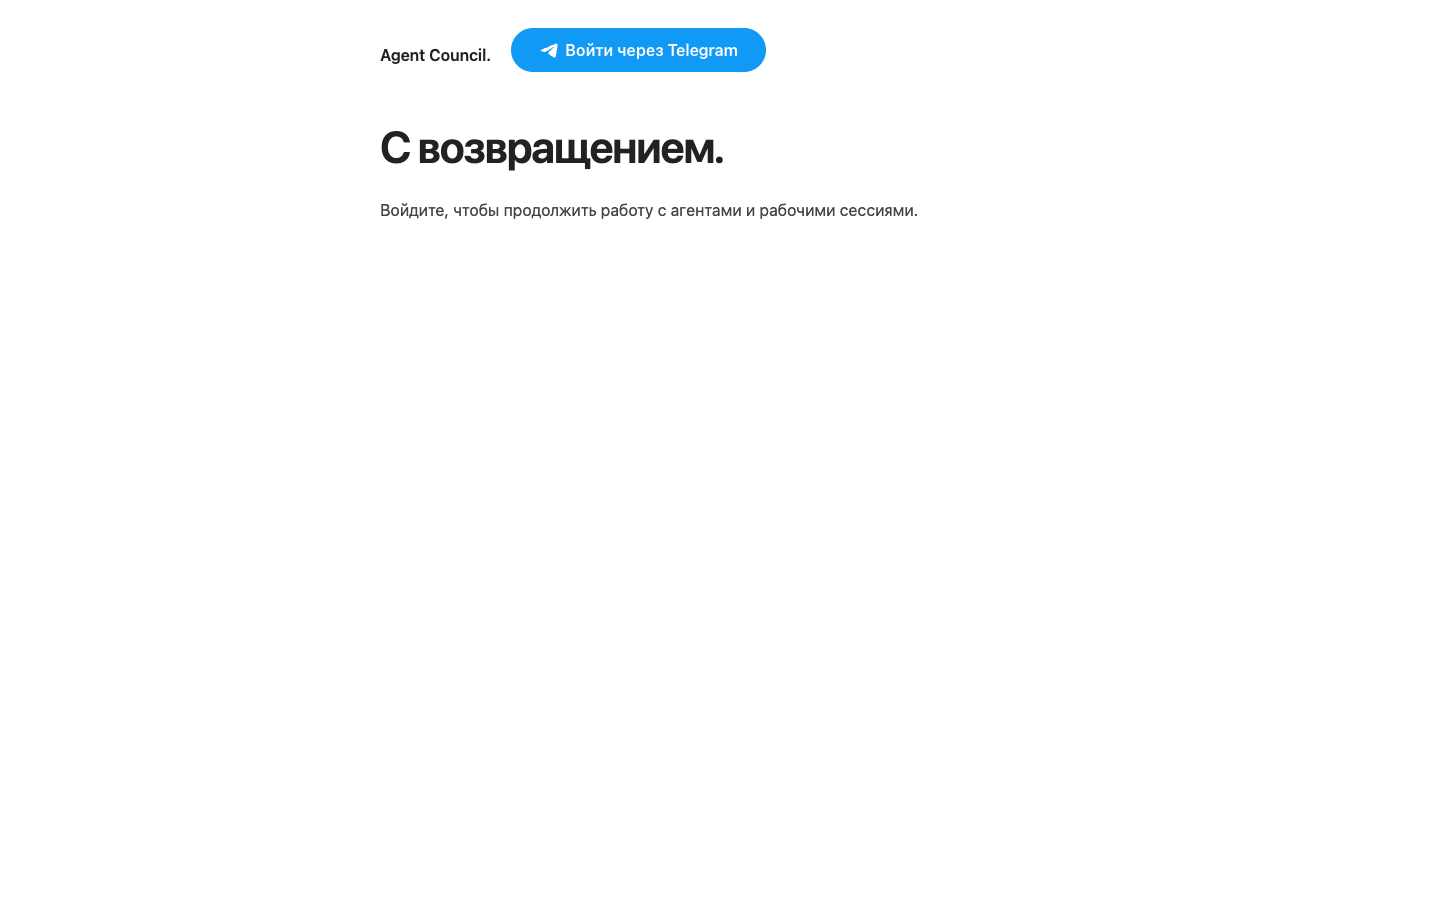
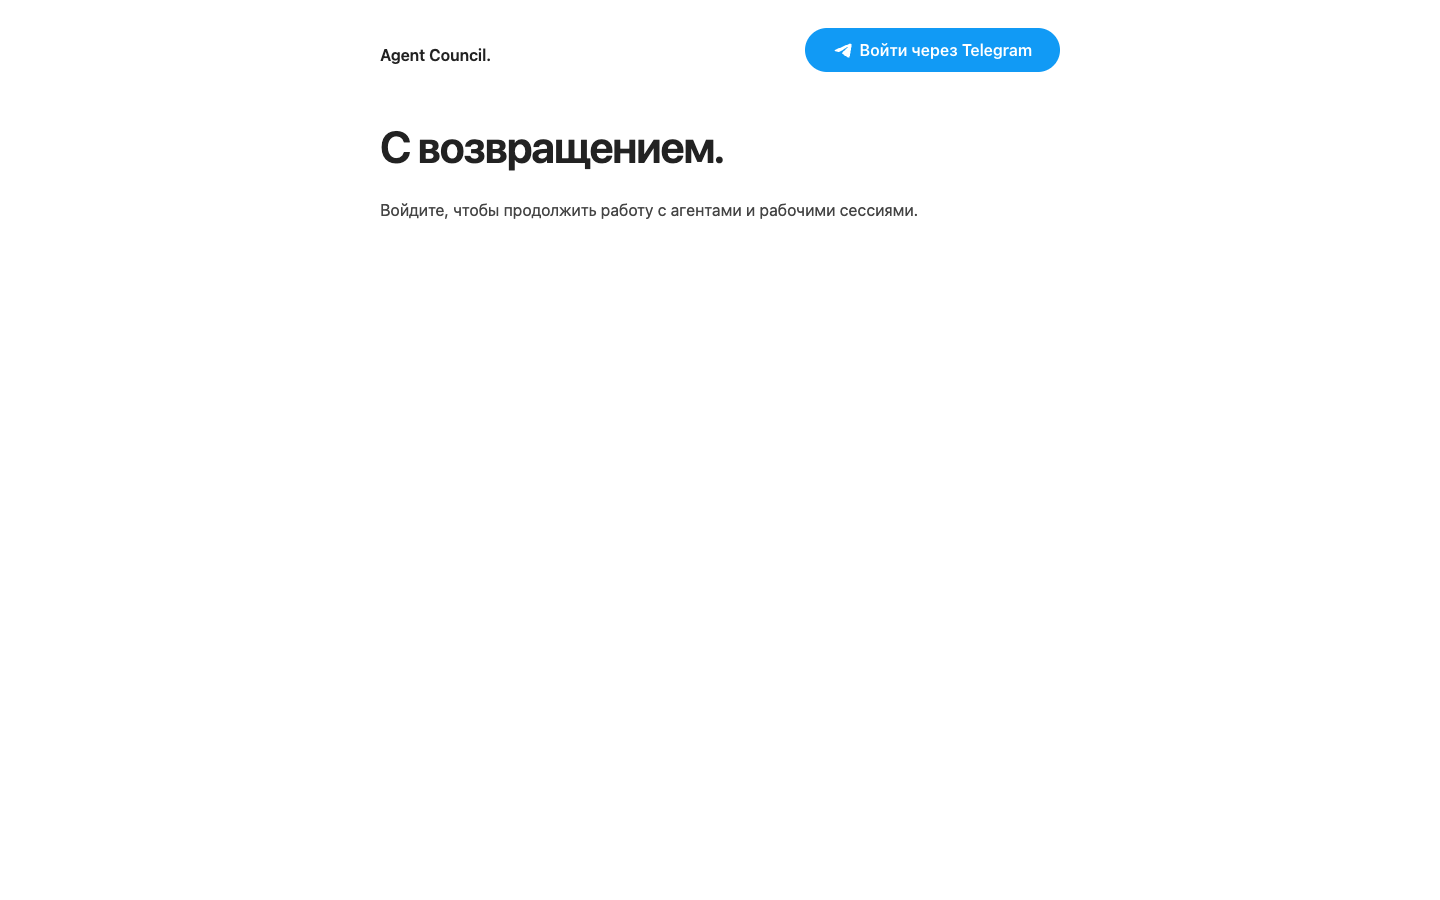
Align sign-in actions with Beauty.css 0.4.0

Changed region(s): [[0.5625, 0.0311, 0.75, 0.0933], [0.3438, 0.0311, 0.5312, 0.0933]]

diff --git a/assets/login/login.html b/assets/login/login.html
@@ -12,12 +12,14 @@
   <header>
     <nav aria-label="Вход">
       <strong>Agent Council.</strong>
-      <div class="provider-list">
+      <div class="beauty-nav-end">
+        <div class="provider-list">
 $PROVIDER_BUTTONS
-      </div>
-      <div class="telegram-widget" hidden>
-        <button class="tg-auth-button not-beauty" type="button" disabled
-          aria-label="Войти через Telegram"><span>Войти через Telegram</span></button>
+        </div>
+        <div class="telegram-widget" hidden>
+          <button class="tg-auth-button not-beauty" type="button" disabled
+            aria-label="Войти через Telegram"><span>Войти через Telegram</span></button>
+        </div>
       </div>
     </nav>
   </header>

diff --git a/README.md b/README.md
@@ -143,7 +143,7 @@ verified after this user-controlled login.
 ## Login appearance
 
 The landing page uses [Beauty.css](https://github.com/zavarovkv/beauty-css) as an
-exact npm dependency, currently **0.3.0**. `package-lock.json` records registry
+exact npm dependency, currently **0.4.0**. `package-lock.json` records registry
 integrity. A digest-pinned Node 24 build stage runs `npm ci --ignore-scripts`;
 only the CSS, package metadata and MIT license enter the final Hermes image.
 The build stage adds no Node runtime to the final image; Hermes retains the
@@ -160,6 +160,8 @@ The header uses the **official Telegram Login JavaScript SDK and its default
 blue web button**, loaded from `https://oauth.telegram.org/js/telegram-login.js?6`.
 The SDK supplies the button styles and icon; Council does not override them.
 Beauty's documented `not-beauty` class excludes this button from its styling.
+The header groups both sign-in methods in Beauty's `beauty-nav-end` helper to align
+them to the right, including when navigation wraps. No project CSS is needed.
 It opens Telegram's popup. The local initializer in `assets/login/telegram-widget.js`
 posts the resulting ID token to the server; it does not trust decoded browser
 claims or persist tokens in browser storage. A server-side OIDC/PKCE link stays

diff --git a/CHANGELOG.md b/CHANGELOG.md
@@ -2,6 +2,8 @@
 
 ## Unreleased
 
+- Align header sign-in actions to the right with Beauty.css 0.4.0's `beauty-nav-end` helper, without local styling overrides.
+
 - Use the official Telegram Login SDK with a browser-bound, single-use server nonce and existing Hermes sessions.
 - Install Beauty.css as a locked npm build dependency and propose updates through Dependabot.
 - Style the Council sign-in page with pinned Beauty.css, system fonts and light/dark themes.
